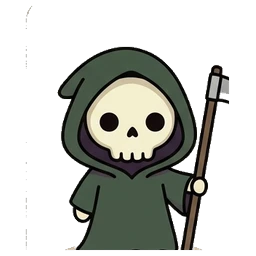
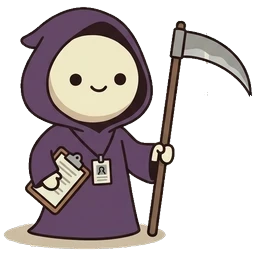
art: round-faced base Dave sprite to match the approved style

diff --git a/docs/art/characters-v2/README.md b/docs/art/characters-v2/README.md
@@ -21,3 +21,5 @@ pair in b7-reroll-dave-gary.jpg instead.
 
 Next step: cut each card to its own transparent PNG (flat cream background keys cleanly)
 and swap them into src/ui/characters/Character.tsx and the card art.
+
+Base Dave: b5 drew him with a skull face (off-style). The sprite public/art/chars/dave.webp comes from b8-dave.jpg (round face, purple hood), cut by hand: border stroke erased, trapped wedge seeded, thin slivers removed. scripts/cut-art.py still cuts b5 slot 0 to dave.webp, so re-running it overwrites this; re-apply or point the script at b8.
